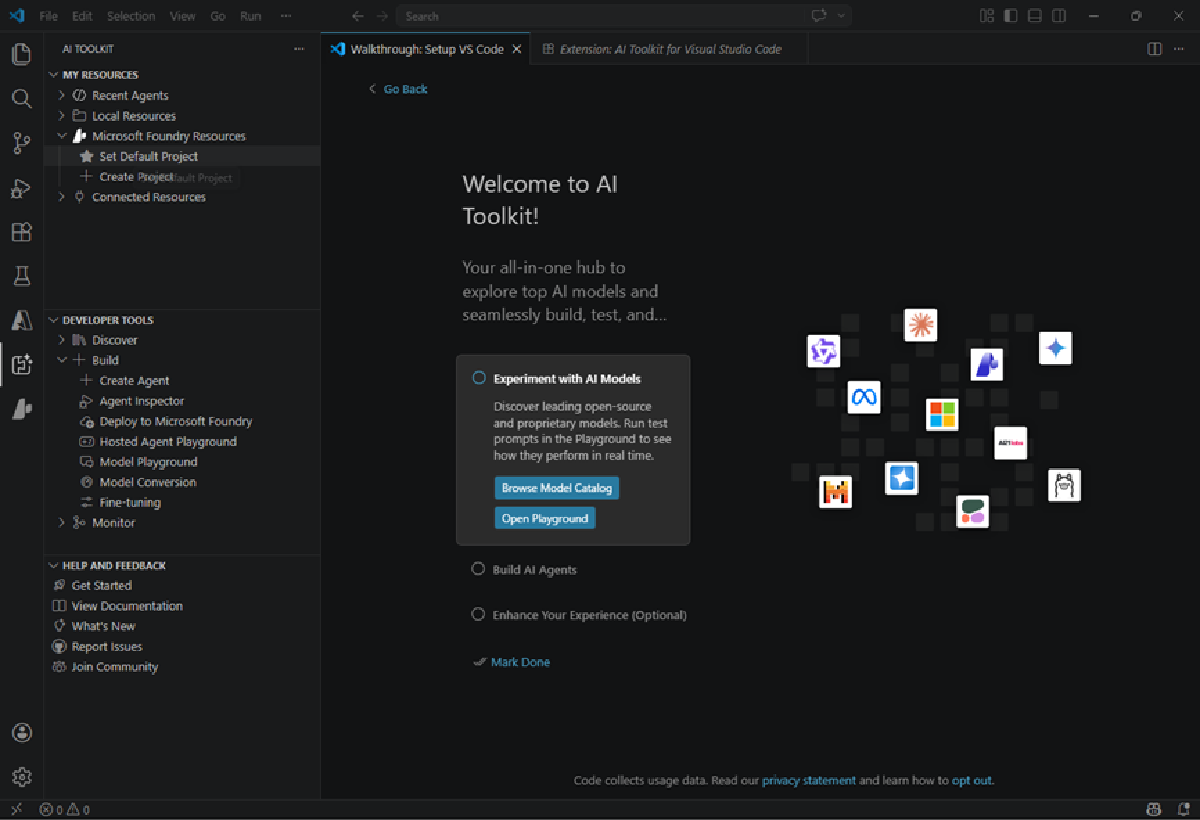
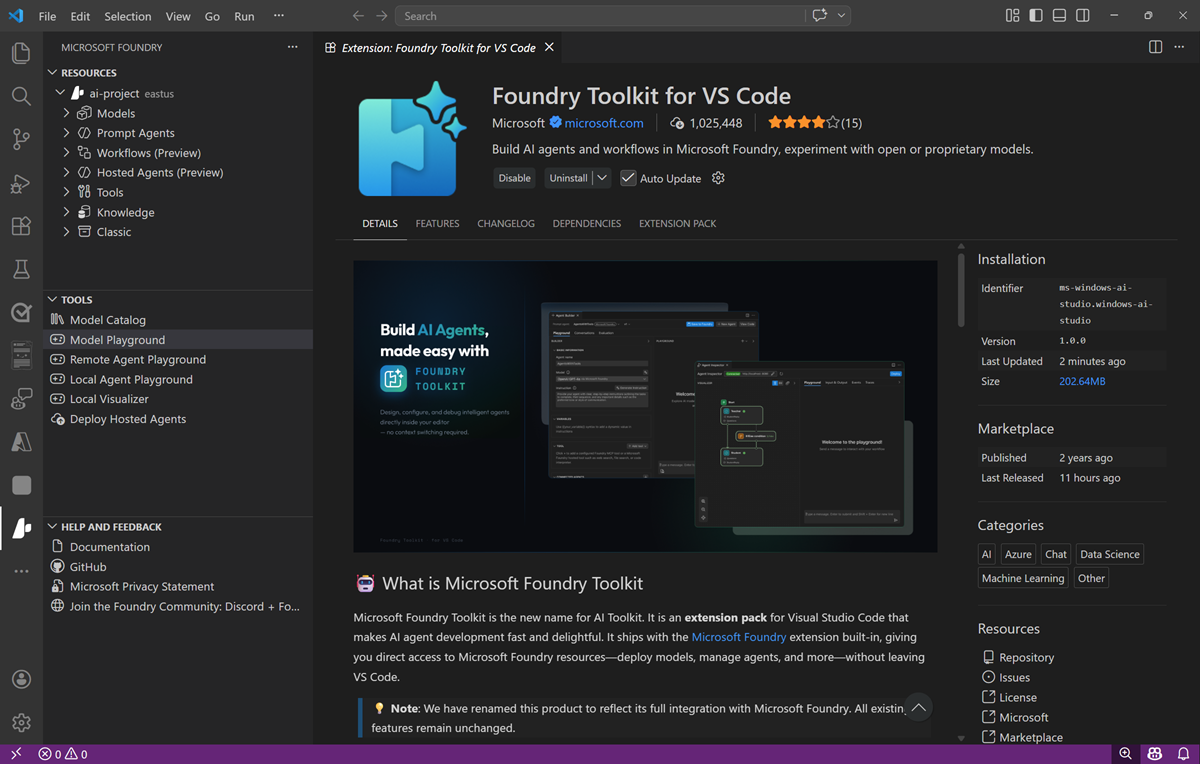
Updated Foundry Extension

Changed region(s): [[0.0, 0.0, 1.0, 1.0], [0.6167, 0.3613, 0.9558, 0.7827], [0.74, 0.3312, 0.8633, 0.4215]]

diff --git a/Instructions/Exercises/01-Explore-ai-studio.md b/Instructions/Exercises/01-Explore-ai-studio.md
@@ -112,27 +112,25 @@ At the core of any generative AI project, there's at least one generative AI mod
     - The *project endpoint* is used to access models provided directly in Foundry (including OpenAI models) using the OpenAI **Responses** API, and to access Foundry-specific APIs (such as the Foundry Agent service).
     - The *OpenAI endpoint* is used to access models using OpenAI APIs, including the **Chat Completions** API and the **Responses** API.
 
-## Install the AI Toolkit extension for Visual Studio Code
+## Install the Foundry Toolkit extension for Visual Studio Code
 
-As a developer, you may spend some time working in the Foundry portal; but you're also likely to spend a lot of time in Visual Studio Code. The AI Toolkit extension provides a convenient way to work with Foundry project resources without leaving the development environment.
+As a developer, you may spend some time working in the Foundry portal; but you're also likely to spend a lot of time in Visual Studio Code. The Foundry Toolkit extension provides a convenient way to work with Foundry project resources without leaving the development environment.
 
 1. Open Visual Studio Code, and in the navigation bar on the left, view the **Extensions** page.
 
-    ![Screenshot of the Visual Studio Code extensions page.](../media/vscode-extensions.png)
+1. Search the extensions marketplace for `Foundry Toolkit`, and install the **Foundry Toolkit for VS Code** extension.
+1. After installing the extension, select the **Microsoft Foundry** page in the left navigation bar.
 
-1. Search the extensions marketplace for `AI Toolkit`, and install the **AI Toolkit** extension.
-1. After installing the extension, select its page in the left navigation bar.
+    ![Screenshot of the Foundry Toolkit Visual Studio Code extension.](../media/foundry-vs-extension.png)
 
-    ![Screenshot of the AI Toolkit Visual Studio Code extension.](../media/foundry-vs-extension.png)
-
-1. In the AI Toolkit pane, use the **Set default project** button to connect to Azure (signing in with your credentials) and select the Foundry project you created previously.
-1. After setting the default project, in the AI Toolkit pane, expand the project, expand **Models**, and select the **gpt-4.1** model you deployed previously.
+1. In the Foundry Toolkit pane, set the default project by connecting to Azure (signing in with your credentials) and selecting the Foundry project you created previously.
+1. After setting the default project, expand the project, expand **Models**, and select the **gpt-4.1** model you deployed previously.
 
     You can view the model deployment details here.
 
-    ![Screenshot of a model in the  AI Toolkit Visual Studio Code extension.](../media/vscode-extension-model.png)
+    ![Screenshot of a model in the  Foundry Toolkit Visual Studio Code extension.](../media/vscode-extension-model.png)
 
-1. In the AI Toolkit pane, in the **Developer Tools** section, select **Model playground** and select the **gpt-4.1** model.
+1. In the Foundry Toolkit pane, in the **Tools** section, select **Model playground** and select the **gpt-4.1** model.
 
     An interactive playground in which you can test the model is opened in Visual Studio Code.
 
